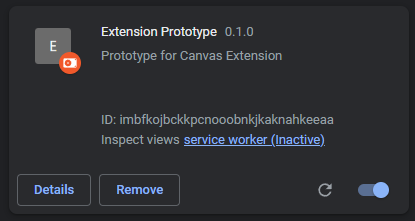
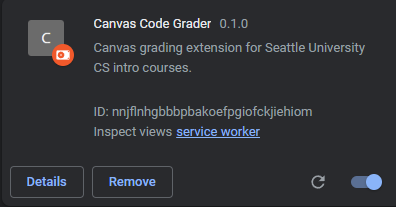
Updated README to reference dist folder and correct extension name

diff --git a/frontend/canvas-chrome-ext/README.md b/frontend/canvas-chrome-ext/README.md
@@ -10,9 +10,9 @@ This is a Chrome extension only.
    <br>![img.png](img.png)
 4. Click "load unpacked" button in the upper left hand side of the screen.
    <br> ![img_2.png](img_2.png)
-5. Go to the directory where you saved the repo and navigate to **Canvas-Code > frontend > canvas-chrome-ext > src**
+5. Go to the directory where you saved the repo and navigate to **Canvas-Code > frontend > canvas-chrome-ext > dist**
    and click *Select Folder*.
-6. The extension will appear on the extension page as *Extension Prototype*. <br> ![img_3.png](img_3.png)
+6. The extension will appear on the extension page as *Canvas Code Grader*. <br> ![img_3.png](img_3.png)
    
 If for some reason you get an error saying manifest.json can't be found make sure you're selecting the correct folder
 containing the manifest.json file. Extensions are loaded by using this file in chrome.
@@ -20,7 +20,7 @@ containing the manifest.json file. Extensions are loaded by using this file in c
 ### Additional notes
 
 1. To make the extension appear as an icon in chrome, click the extension icon in the top right of the browser and pin
-   the extension. <br> ![img_4.png](img_4.png)
+   the extension. <br>![img_4.png](img_4.png)
 2. When making changes to the extension you will have to go to the extensions page and hit the "update" button in the
    top left of window after each iteration.
 3. To debug the extension right-click the window and hit inspect page and then select console. There should be messages
